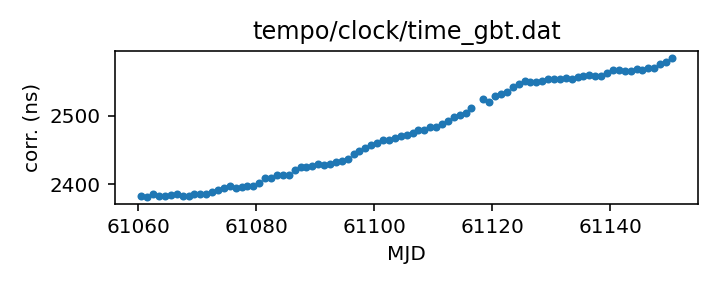
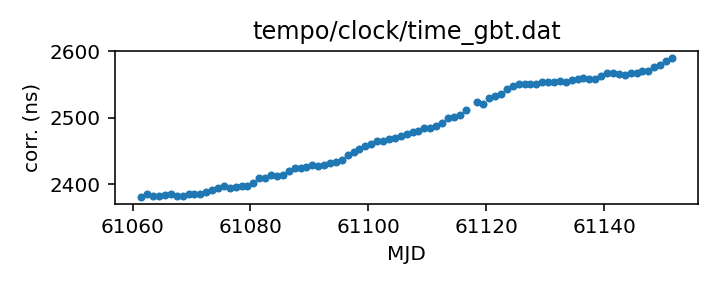
Routine gh-pages update from Github action Wed Apr 22 21:16:38 UTC 2026

diff --git a/status.md b/status.md
@@ -13,18 +13,18 @@ name of each clock file links to a page with more details.
 
 | Name | File | Corrections start | Corrections end | Last check date | Last check result 
 |:--- |:--- | --- | --- | --- |:--- 
-| [GPS to UTC](T2runtime/clock/gps2utc.clk.html) | `T2runtime/clock/gps2utc.clk` | 1993-01-01 MJD 48988.0 | 2026-03-30 MJD 61129.0 | 2026-04-21 | Unchanged 
-| [GPS to UTC (Combined Clock)](T2runtime/clock/gps2utc_cc.clk.html) | `T2runtime/clock/gps2utc_cc.clk` | 1993-01-01 MJD 48988.0 | 2026-03-30 MJD 61129.0 | 2026-04-21 | Unchanged 
-| [GPS to UTC (Corrected)](T2runtime/clock/gps2utc_c0p.clk.html) | `T2runtime/clock/gps2utc_c0p.clk` | 2010-12-29 MJD 55559.0 | 2026-03-30 MJD 61129.0 | 2026-04-21 | Unchanged 
-| [GBT](tempo/clock/time_gbt.dat.html) | `tempo/clock/time_gbt.dat` | 2000-12-31 MJD 51909.5 | 2026-04-20 MJD 61150.5 | 2026-04-21 | Updated 
-| [GBT (TEMPO2 converted from TEMPO)](T2runtime/clock/gbt2gps.clk.html) | `T2runtime/clock/gbt2gps.clk` | 2000-12-31 MJD 51909.5 | 2024-05-18 MJD 60448.5 | 2026-04-21 | **Validation failed** 
+| [GPS to UTC](T2runtime/clock/gps2utc.clk.html) | `T2runtime/clock/gps2utc.clk` | 1993-01-01 MJD 48988.0 | 2026-03-30 MJD 61129.0 | 2026-04-22 | Unchanged 
+| [GPS to UTC (Combined Clock)](T2runtime/clock/gps2utc_cc.clk.html) | `T2runtime/clock/gps2utc_cc.clk` | 1993-01-01 MJD 48988.0 | 2026-03-30 MJD 61129.0 | 2026-04-22 | Unchanged 
+| [GPS to UTC (Corrected)](T2runtime/clock/gps2utc_c0p.clk.html) | `T2runtime/clock/gps2utc_c0p.clk` | 2010-12-29 MJD 55559.0 | 2026-03-30 MJD 61129.0 | 2026-04-22 | Unchanged 
+| [GBT](tempo/clock/time_gbt.dat.html) | `tempo/clock/time_gbt.dat` | 2000-12-31 MJD 51909.5 | 2026-04-21 MJD 61151.5 | 2026-04-22 | Updated 
+| [GBT (TEMPO2 converted from TEMPO)](T2runtime/clock/gbt2gps.clk.html) | `T2runtime/clock/gbt2gps.clk` | 2000-12-31 MJD 51909.5 | 2024-05-18 MJD 60448.5 | 2026-04-22 | **Validation failed** 
 | [Jodrell Bank](T2runtime/clock/jb2gps.clk.html) | `T2runtime/clock/jb2gps.clk` | 2006-10-13 MJD 54021.4 | 2026-04-17 MJD 61147.0 | 2026-04-20 | Updated 
 | [Jodrell Bank Roach](T2runtime/clock/jbroach2jb.clk.html) | `T2runtime/clock/jbroach2jb.clk` | 2006-10-13 MJD 54021.4 | 2018-03-20 MJD 58197.6 | 2026-04-17 | Unchanged 
 | [Jodrell Bank DFB](T2runtime/clock/jbdfb2jb.clk.html) | `T2runtime/clock/jbdfb2jb.clk` | 2006-10-13 MJD 54021.4 | 2021-02-22 MJD 59268.0 | 2026-04-17 | Unchanged 
 | [Meerkat (observatory)](T2runtime/clock/mk2utc_observatory.clk.html) | `T2runtime/clock/mk2utc_observatory.clk` | 2019-01-01 MJD 58484.0 | 2026-04-10 MJD 61141.0 | 2026-04-17 | Updated 
-| [Leap seconds](tempo/clock/leap.sec.html) | `tempo/clock/leap.sec` | 1972-07-01 MJD 41499.0 | 2017-01-01 MJD 57754.0 | 2026-04-21 | Unchanged 
-| [UT1 table](tempo/clock/ut1.dat.html) | `tempo/clock/ut1.dat` | 1973-01-02 MJD 41684.0 | 2027-04-24 MJD 61519.0 | 2026-04-21 | Unchanged 
-| [UT1 table](T2runtime/clock/ut1.dat.html) | `T2runtime/clock/ut1.dat` | 1973-01-02 MJD 41684.0 | 2027-04-24 MJD 61519.0 | 2026-04-21 | Unchanged 
+| [Leap seconds](tempo/clock/leap.sec.html) | `tempo/clock/leap.sec` | 1972-07-01 MJD 41499.0 | 2017-01-01 MJD 57754.0 | 2026-04-22 | Unchanged 
+| [UT1 table](tempo/clock/ut1.dat.html) | `tempo/clock/ut1.dat` | 1973-01-02 MJD 41684.0 | 2027-04-24 MJD 61519.0 | 2026-04-22 | Unchanged 
+| [UT1 table](T2runtime/clock/ut1.dat.html) | `T2runtime/clock/ut1.dat` | 1973-01-02 MJD 41684.0 | 2027-04-24 MJD 61519.0 | 2026-04-22 | Unchanged 
 
 
 

diff --git a/T2runtime/clock/gbt2gps.clk.md b/T2runtime/clock/gbt2gps.clk.md
@@ -25,12 +25,11 @@ If questions arise about the conversion, contact Anne Archibald
 | Clock file start | 2000-12-31 MJD 51909.5 |
 | Clock file end | 2024-05-18 MJD 60448.5 |
 | Update interval (days) | 1 |
-| Last update attempt | 2026-04-21 |
+| Last update attempt | 2026-04-22 |
 | Last update result | Validation failed |
 
 Log entries from the last few update attempts:
 ```
-2026-04-12 21:00:48.795 - Validation failed: New version of T2runtime/clock/gbt2gps.clk clock corrections differ from old version where they overlap in 11 places
 2026-04-13 21:15:06.083 - Validation failed: New version of T2runtime/clock/gbt2gps.clk clock corrections differ from old version where they overlap in 11 places
 2026-04-14 21:14:37.124 - Validation failed: New version of T2runtime/clock/gbt2gps.clk clock corrections differ from old version where they overlap in 11 places
 2026-04-15 21:13:51.623 - Validation failed: New version of T2runtime/clock/gbt2gps.clk clock corrections differ from old version where they overlap in 11 places
@@ -40,6 +39,7 @@ Log entries from the last few update attempts:
 2026-04-19 21:02:14.982 - Validation failed: New version of T2runtime/clock/gbt2gps.clk clock corrections differ from old version where they overlap in 11 places
 2026-04-20 21:08:27.187 - Validation failed: New version of T2runtime/clock/gbt2gps.clk clock corrections differ from old version where they overlap in 11 places
 2026-04-21 21:12:33.555 - Validation failed: New version of T2runtime/clock/gbt2gps.clk clock corrections differ from old version where they overlap in 11 places
+2026-04-22 21:16:14.639 - Validation failed: New version of T2runtime/clock/gbt2gps.clk clock corrections differ from old version where they overlap in 11 places
 ```
 [Full log](https://raw.githubusercontent.com/ipta/pulsar-clock-corrections/main/log/T2runtime/clock/gbt2gps.clk.log)
 

diff --git a/tempo/clock/time_gbt.dat.md b/tempo/clock/time_gbt.dat.md
@@ -36,14 +36,13 @@ If questions arise, contact Ryan S. Lynch <rlynch@nrao.edu>.
 | Format | tempo |
 | Bogus last correction | False |
 | Clock file start | 2000-12-31 MJD 51909.5 |
-| Clock file end | 2026-04-20 MJD 61150.5 |
+| Clock file end | 2026-04-21 MJD 61151.5 |
 | Update interval (days) | 1 |
-| Last update attempt | 2026-04-21 |
+| Last update attempt | 2026-04-22 |
 | Last update result | Updated |
 
 Log entries from the last few update attempts:
 ```
-2026-04-12 21:00:48.716 - Updated
 2026-04-13 21:15:06.005 - Updated
 2026-04-14 21:14:37.046 - Updated
 2026-04-15 21:13:51.548 - Updated
@@ -53,6 +52,7 @@ Log entries from the last few update attempts:
 2026-04-19 21:02:14.906 - Updated
 2026-04-20 21:08:27.110 - Updated
 2026-04-21 21:12:33.483 - Updated
+2026-04-22 21:16:14.560 - Updated
 ```
 [Full log](https://raw.githubusercontent.com/ipta/pulsar-clock-corrections/main/log/tempo/clock/time_gbt.dat.log)
 

diff --git a/T2runtime/clock/gps2utc_c0p.clk.md b/T2runtime/clock/gps2utc_c0p.clk.md
@@ -30,12 +30,11 @@ about the BIPM's published corrections, contact <tai@bipm.org>.
 | Clock file start | 2010-12-29 MJD 55559.0 |
 | Clock file end | 2026-03-30 MJD 61129.0 |
 | Update interval (days) | 1 |
-| Last update attempt | 2026-04-21 |
+| Last update attempt | 2026-04-22 |
 | Last update result | Unchanged |
 
 Log entries from the last few update attempts:
 ```
-2026-04-12 21:00:48.254 - Unchanged
 2026-04-13 21:15:05.252 - Unchanged
 2026-04-14 21:14:36.473 - Updated
 2026-04-15 21:13:50.984 - Unchanged
@@ -45,6 +44,7 @@ Log entries from the last few update attempts:
 2026-04-19 21:02:13.911 - Unchanged
 2026-04-20 21:08:26.640 - Unchanged
 2026-04-21 21:12:32.587 - Unchanged
+2026-04-22 21:16:14.010 - Unchanged
 ```
 [Full log](https://raw.githubusercontent.com/ipta/pulsar-clock-corrections/main/log/T2runtime/clock/gps2utc_c0p.clk.log)
 

diff --git a/T2runtime/clock/gps2utc_cc.clk.md b/T2runtime/clock/gps2utc_cc.clk.md
@@ -29,12 +29,11 @@ about the BIPM's published corrections, contact <tai@bipm.org>.
 | Clock file start | 1993-01-01 MJD 48988.0 |
 | Clock file end | 2026-03-30 MJD 61129.0 |
 | Update interval (days) | 1 |
-| Last update attempt | 2026-04-21 |
+| Last update attempt | 2026-04-22 |
 | Last update result | Unchanged |
 
 Log entries from the last few update attempts:
 ```
-2026-04-12 21:00:48.244 - Unchanged
 2026-04-13 21:15:05.242 - Unchanged
 2026-04-14 21:14:36.447 - Updated
 2026-04-15 21:13:50.976 - Unchanged
@@ -44,6 +43,7 @@ Log entries from the last few update attempts:
 2026-04-19 21:02:13.903 - Unchanged
 2026-04-20 21:08:26.632 - Unchanged
 2026-04-21 21:12:32.578 - Unchanged
+2026-04-22 21:16:14.001 - Unchanged
 ```
 [Full log](https://raw.githubusercontent.com/ipta/pulsar-clock-corrections/main/log/T2runtime/clock/gps2utc_cc.clk.log)
 

diff --git a/T2runtime/clock/gps2utc.clk.md b/T2runtime/clock/gps2utc.clk.md
@@ -32,12 +32,11 @@ about the BIPM's published corrections, contact <tai@bipm.org>.
 | Clock file start | 1993-01-01 MJD 48988.0 |
 | Clock file end | 2026-03-30 MJD 61129.0 |
 | Update interval (days) | 1 |
-| Last update attempt | 2026-04-21 |
+| Last update attempt | 2026-04-22 |
 | Last update result | Unchanged |
 
 Log entries from the last few update attempts:
 ```
-2026-04-12 21:00:48.220 - Unchanged
 2026-04-13 21:15:05.218 - Unchanged
 2026-04-14 21:14:36.384 - Updated
 2026-04-15 21:13:50.954 - Unchanged
@@ -47,6 +46,7 @@ Log entries from the last few update attempts:
 2026-04-19 21:02:13.881 - Unchanged
 2026-04-20 21:08:26.610 - Unchanged
 2026-04-21 21:12:32.555 - Unchanged
+2026-04-22 21:16:13.978 - Unchanged
 ```
 [Full log](https://raw.githubusercontent.com/ipta/pulsar-clock-corrections/main/log/T2runtime/clock/gps2utc.clk.log)
 

diff --git a/T2runtime/clock/ut1.dat.md b/T2runtime/clock/ut1.dat.md
@@ -30,12 +30,11 @@ If there are any questions, contact Anne Archibald
 | File start | 1973-01-02 MJD 41684.0 |
 | File end | 2027-04-24 MJD 61519.0 |
 | Update interval (days) | 0 |
-| Last update attempt | 2026-04-21 |
+| Last update attempt | 2026-04-22 |
 | Last update result | Unchanged |
 
 Log entries from the last few update attempts:
 ```
-2026-04-12 21:00:56.900 - Unchanged
 2026-04-13 21:15:15.798 - Unchanged
 2026-04-14 21:14:44.916 - Unchanged
 2026-04-15 21:13:59.589 - Unchanged
@@ -45,5 +44,6 @@ Log entries from the last few update attempts:
 2026-04-19 21:02:27.475 - Unchanged
 2026-04-20 21:08:37.203 - Unchanged
 2026-04-21 21:12:46.021 - Unchanged
+2026-04-22 21:16:23.353 - Unchanged
 ```
 [Full log](https://raw.githubusercontent.com/ipta/pulsar-clock-corrections/main/log/T2runtime/clock/ut1.dat.log)

diff --git a/tempo/clock/leap.sec.md b/tempo/clock/leap.sec.md
@@ -21,12 +21,11 @@ If there are any questions, contact Anne Archibald
 | File start | 1972-07-01 MJD 41499.0 |
 | File end | 2017-01-01 MJD 57754.0 |
 | Update interval (days) | 0 |
-| Last update attempt | 2026-04-21 |
+| Last update attempt | 2026-04-22 |
 | Last update result | Unchanged |
 
 Log entries from the last few update attempts:
 ```
-2026-04-12 21:00:48.822 - Unchanged
 2026-04-13 21:15:06.995 - Unchanged
 2026-04-14 21:14:37.150 - Unchanged
 2026-04-15 21:13:51.648 - Unchanged
@@ -36,5 +35,6 @@ Log entries from the last few update attempts:
 2026-04-19 21:02:15.007 - Unchanged
 2026-04-20 21:08:28.504 - Unchanged
 2026-04-21 21:12:33.578 - Unchanged
+2026-04-22 21:16:14.666 - Unchanged
 ```
 [Full log](https://raw.githubusercontent.com/ipta/pulsar-clock-corrections/main/log/tempo/clock/leap.sec.log)

diff --git a/tempo/clock/ut1.dat.md b/tempo/clock/ut1.dat.md
@@ -30,12 +30,11 @@ If there are any questions, contact Anne Archibald
 | File start | 1973-01-02 MJD 41684.0 |
 | File end | 2027-04-24 MJD 61519.0 |
 | Update interval (days) | 0 |
-| Last update attempt | 2026-04-21 |
+| Last update attempt | 2026-04-22 |
 | Last update result | Unchanged |
 
 Log entries from the last few update attempts:
 ```
-2026-04-12 21:00:56.850 - Unchanged
 2026-04-13 21:15:15.749 - Unchanged
 2026-04-14 21:14:44.867 - Unchanged
 2026-04-15 21:13:59.542 - Unchanged
@@ -45,5 +44,6 @@ Log entries from the last few update attempts:
 2026-04-19 21:02:27.426 - Unchanged
 2026-04-20 21:08:37.153 - Unchanged
 2026-04-21 21:12:45.979 - Unchanged
+2026-04-22 21:16:23.304 - Unchanged
 ```
 [Full log](https://raw.githubusercontent.com/ipta/pulsar-clock-corrections/main/log/tempo/clock/ut1.dat.log)
